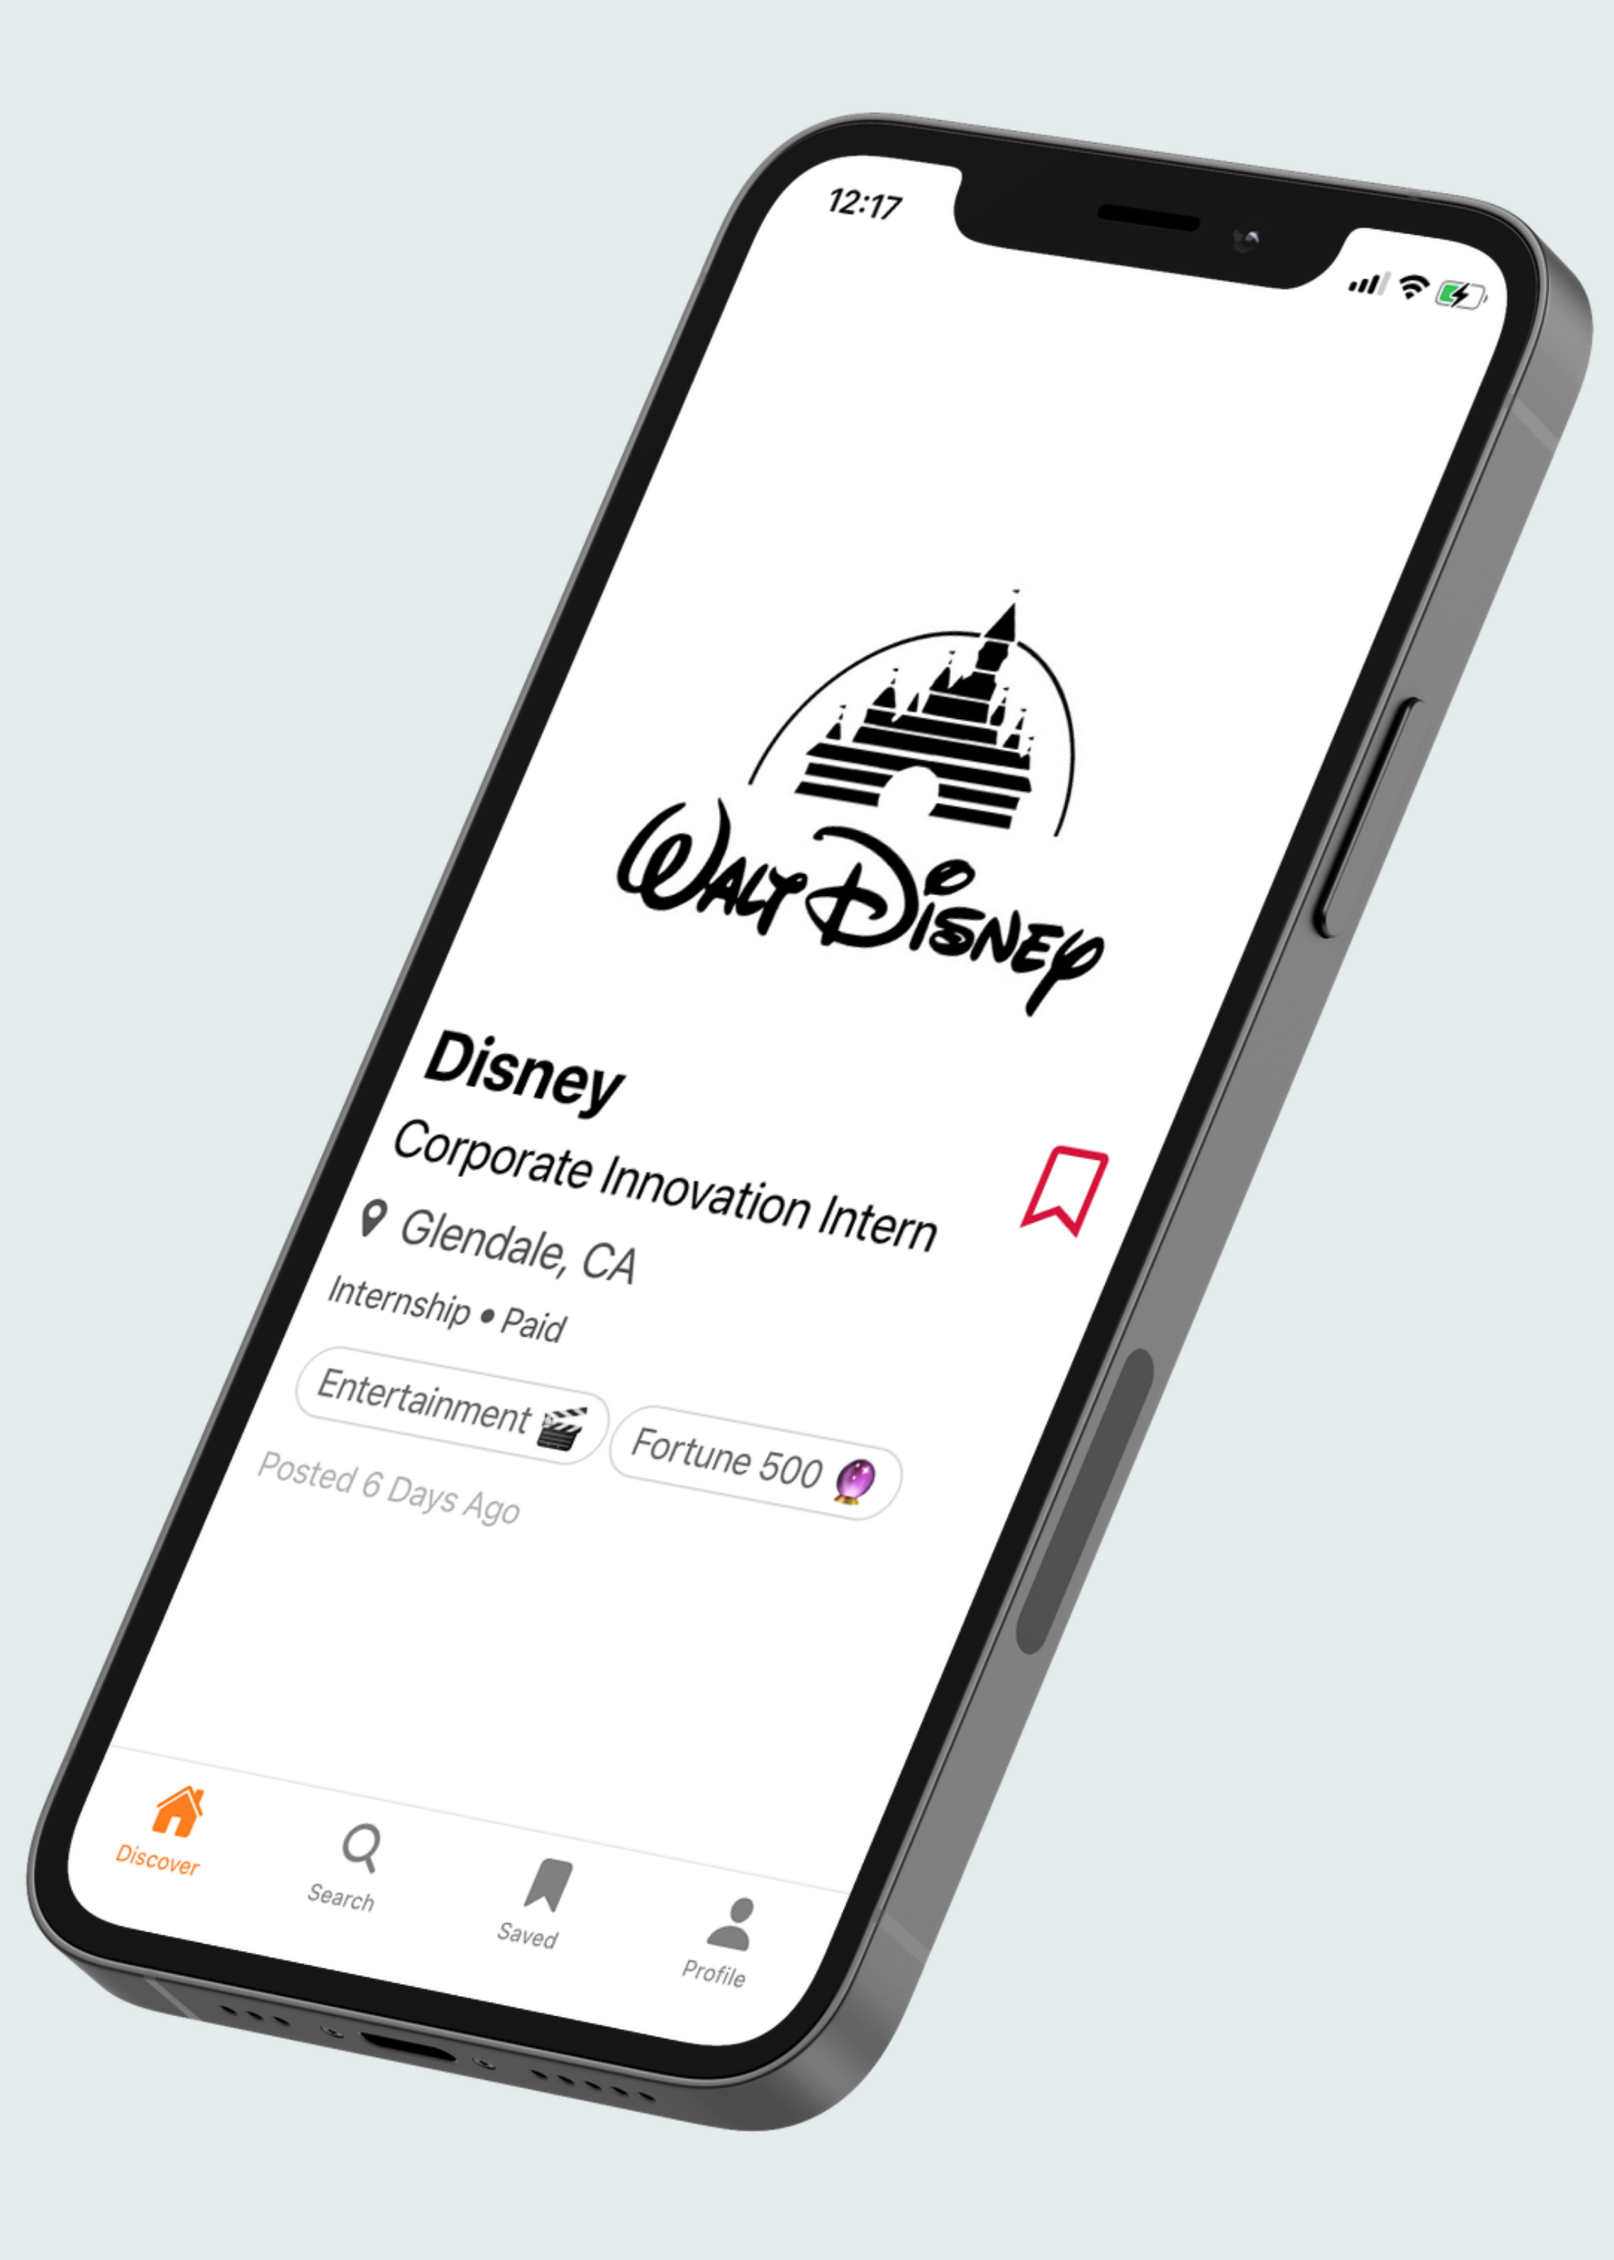
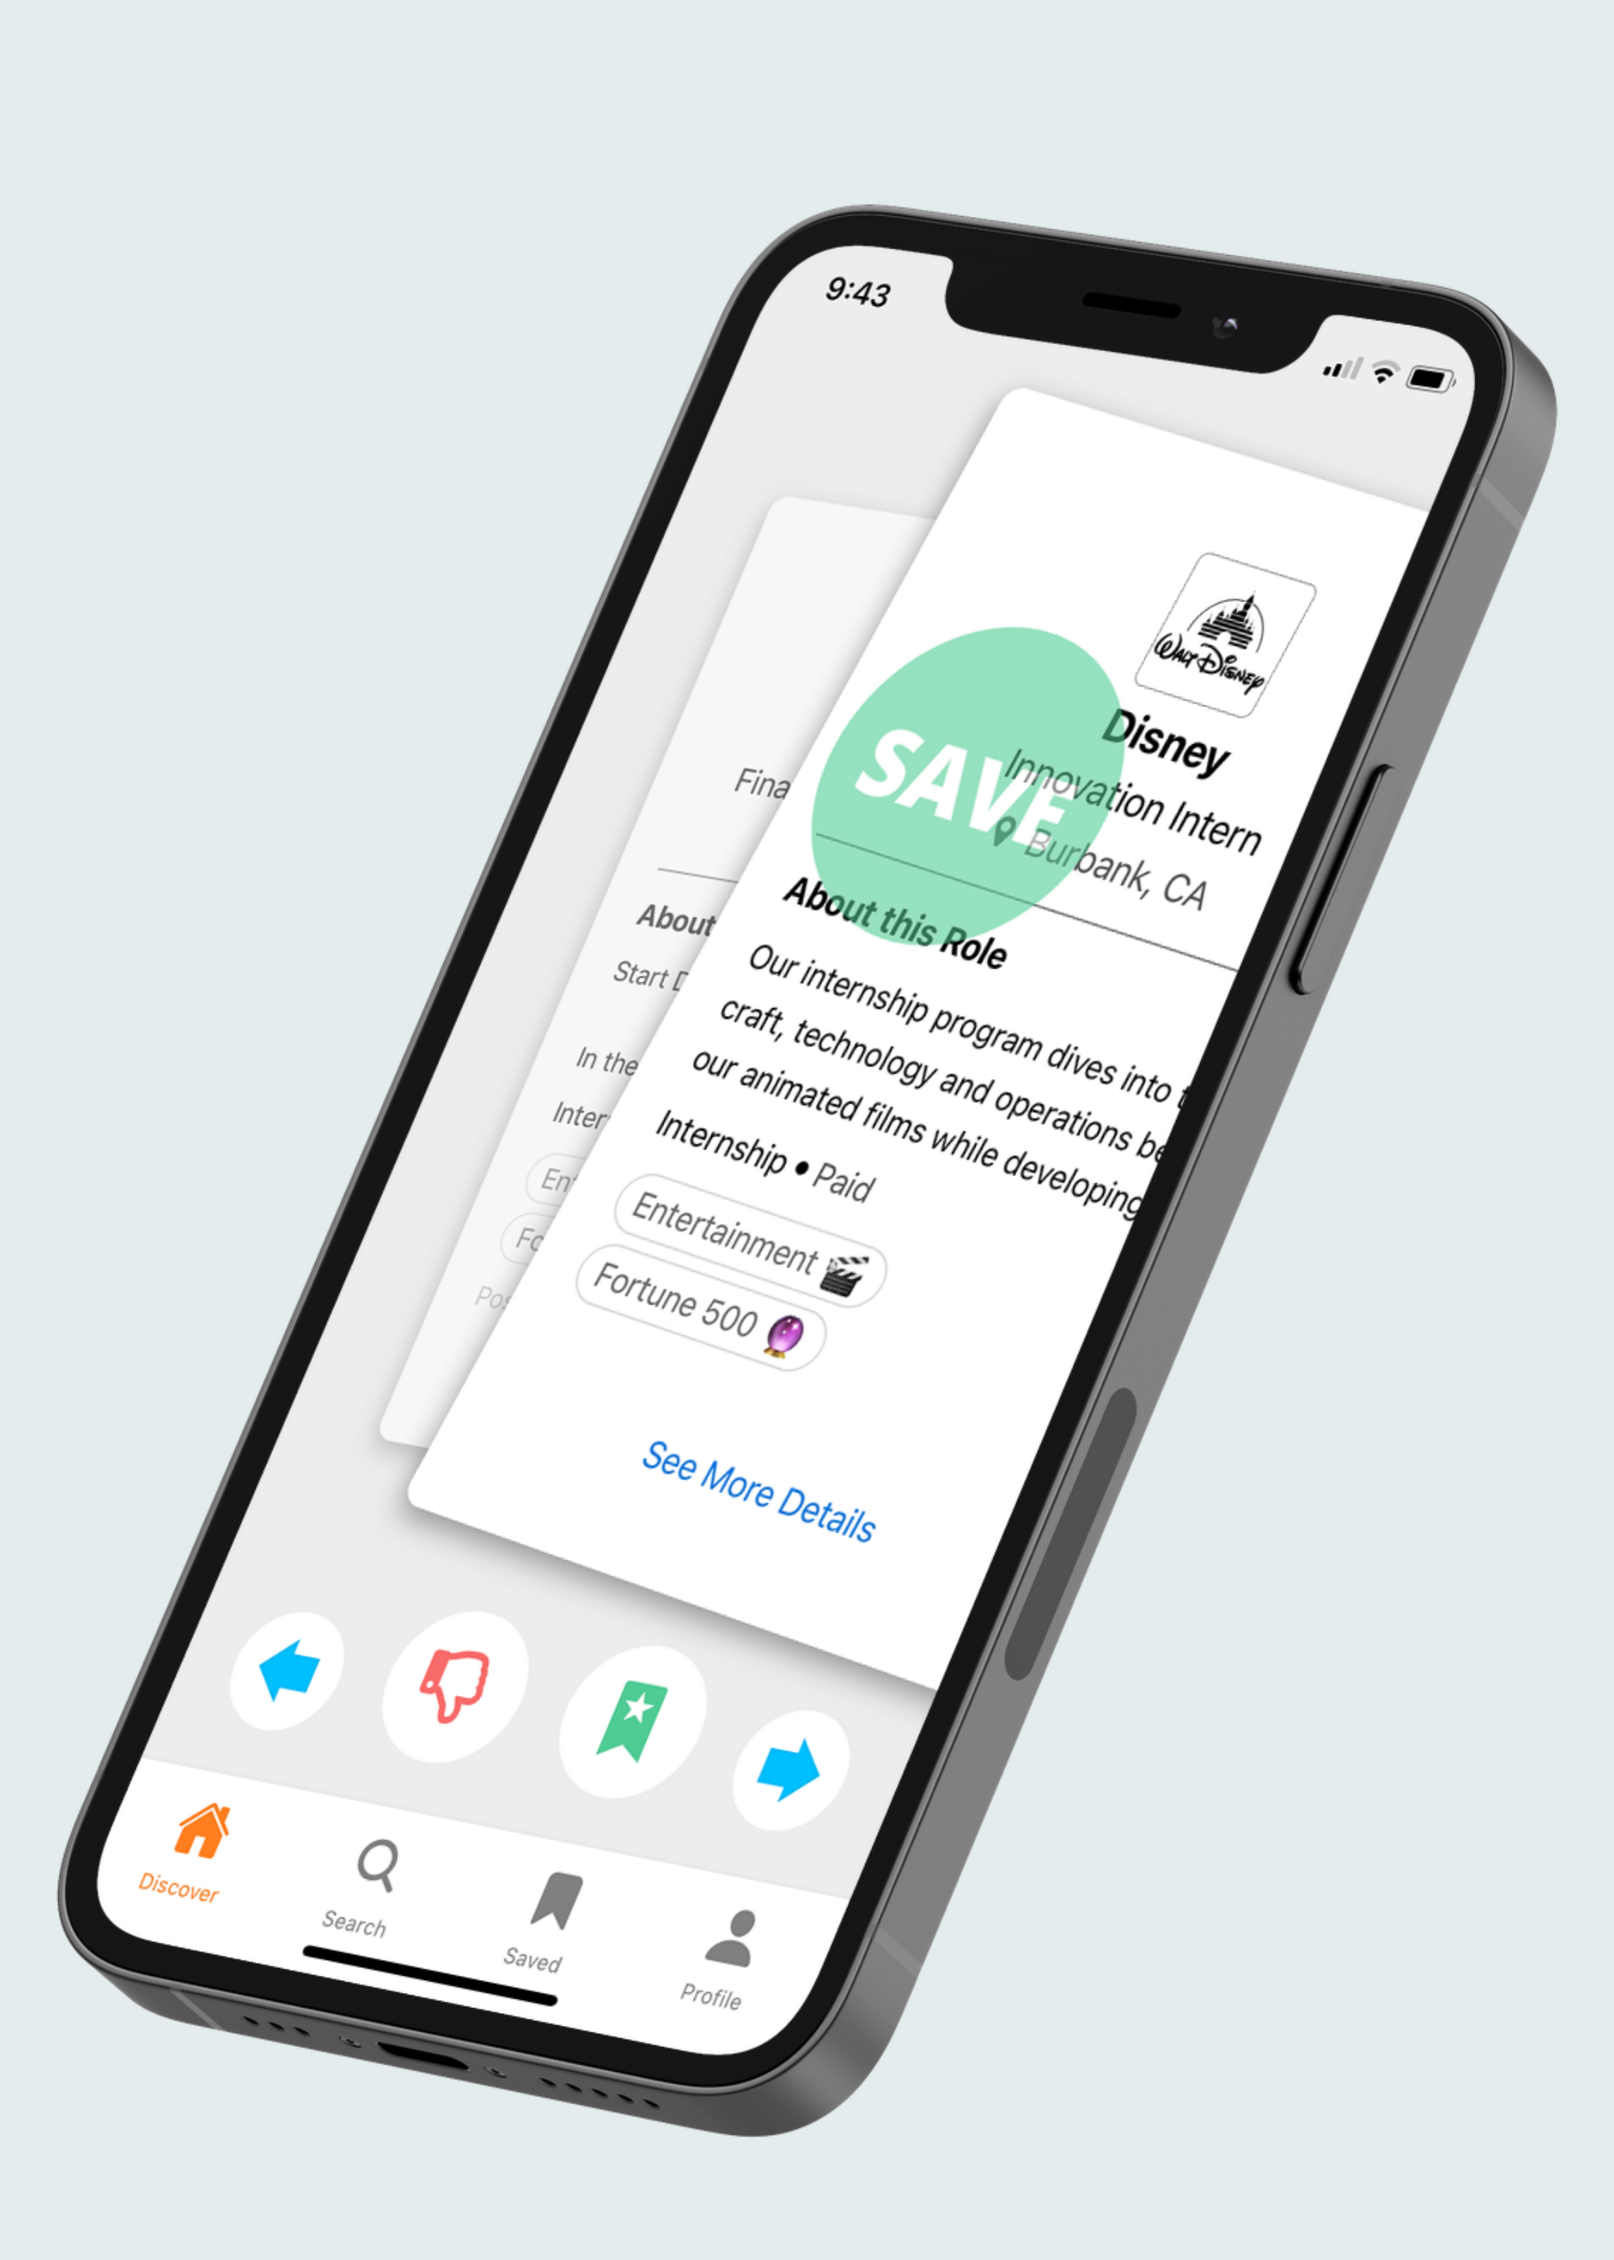
Updated app design

diff --git a/questions.html b/questions.html
@@ -124,7 +124,7 @@
                     <span class="a-response">By clicking on a job, it will open the job details and you
                         will see an apply button that will take you straight to the company website. However, we
                         recommend
-                        using our email feature on the saved screen. While you are scrolling through your feed, just
+                        using our email feature on the saved screen. While you are swiping through your feed, just
                         save
                         your favorite jobs and we will email you all the links so you can easily apply from your
                         computer.</span>
